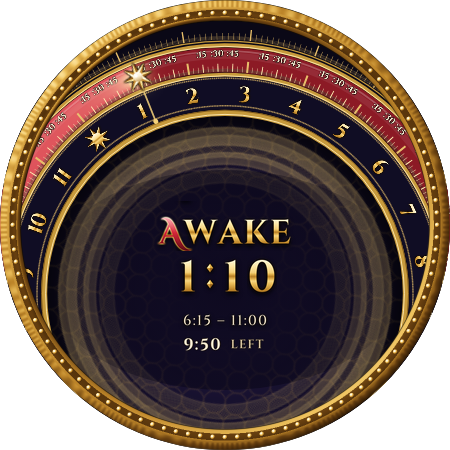
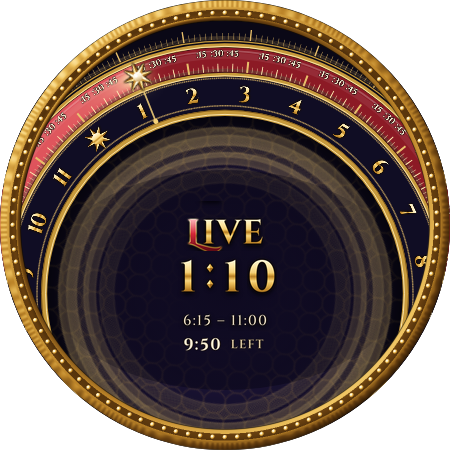
Book of Hours I and II: rename the weekend Awake chapter to Live
Claude-Session: https://claude.ai/code/session_019iNMHNdanGfPdwp3pjPi1G

Changed region(s): [[0.3422, 0.4667, 0.6533, 0.56]]

diff --git a/faces/book-of-hours/generate_xml.py b/faces/book-of-hours/generate_xml.py
@@ -15,7 +15,7 @@ rerun this script to move a boundary; every angle, ramp and label follows.
     Evening   20:30 - 23:00       (kids asleep)
 
   Weekends (Saturday, Sunday):
-    Sleep     23:00 - 6:15        Awake    6:15 - 23:00
+    Sleep     23:00 - 6:15        Live     6:15 - 23:00
 
 Sleep is shared by both, so Friday and Sunday nights cross midnight without a
 seam. Every weekday-only element (chapters, commutes, lozenges, roads) is
@@ -71,7 +71,7 @@ SCHEDULE = [
     ('work', 'Work', hm(9, 30), hm(17, 20), '#10B57E', '#93F7CF', '#04563B', 'weekday'),
     ('hearth', 'Family', hm(18, 30), hm(20, 30), '#F2662A', '#FFC9A1', '#782409', 'weekday'),
     ('evening', 'Evening', hm(20, 30), hm(23), '#A04BE6', '#E2B9FF', '#3E1466', 'weekday'),
-    ('awake', 'Awake', hm(6, 15), hm(23), '#D62839', '#FFB3B8', '#5E0A14', 'weekend'),
+    ('live', 'Live', hm(6, 15), hm(23), '#D62839', '#FFB3B8', '#5E0A14', 'weekend'),
 ]
 # Commutes are weekday-only.
 # key, start, end, subtitle
@@ -444,7 +444,7 @@ def graduations(parent):
             transform(part, 'alpha', outside_fade(t, 230))
             radial_line(part, 180.5, 185, GOLD, 1.2)
     # Five-minute graduations appear inside the zoomed chapter. One mark serves
-    # every chapter that contains it (Work and Awake overlap); at most one of
+    # every chapter that contains it (Work and Live overlap); at most one of
     # their zooms is non-zero.
     for t in range(0, 1440, 5):
         if t % 30 == 0:

diff --git a/faces/book-of-hours-ii/generate_xml.py b/faces/book-of-hours-ii/generate_xml.py
@@ -20,7 +20,7 @@ The day (edit SCHEDULE / COMMUTES and rerun):
     Evening   20:30 - 23:00
 
   Weekends (Saturday, Sunday):
-    Sleep     23:00 - 6:15        Awake    6:15 - 23:00
+    Sleep     23:00 - 6:15        Live     6:15 - 23:00
 
 Sleep is shared, so Friday and Sunday nights cross midnight without a seam.
 Weekday-only elements are multiplied by WEEKDAY and weekend-only ones by
@@ -70,7 +70,7 @@ SCHEDULE = [
     ('work', 'Work', hm(9, 30), hm(17, 20), '#10B57E', '#93F7CF', '#04563B', 'weekday'),
     ('hearth', 'Family', hm(18, 30), hm(20, 30), '#F2662A', '#FFC9A1', '#782409', 'weekday'),
     ('evening', 'Evening', hm(20, 30), hm(23), '#A04BE6', '#E2B9FF', '#3E1466', 'weekday'),
-    ('awake', 'Awake', hm(6, 15), hm(23), '#D62839', '#FFB3B8', '#5E0A14', 'weekend'),
+    ('live', 'Live', hm(6, 15), hm(23), '#D62839', '#FFB3B8', '#5E0A14', 'weekend'),
 ]
 # Commutes are weekday-only.
 # key, start, end, subtitle

diff --git a/faces/book-of-hours-ii/generate_assets.py b/faces/book-of-hours-ii/generate_assets.py
@@ -353,7 +353,7 @@ def emblem_evening(ch):
     finish(sk, layers, f'emblem_{ch.key}')
 
 
-def emblem_awake(ch):
+def emblem_live(ch):
     """A whole sun at its height: the weekend has no sections, only daylight."""
     sk = Sketch(60, 60)
     layers = [(hexrgb(ch.pigment), sk.glow(30, 30, 27) * 0.5)]
@@ -612,7 +612,7 @@ def lettering():
                 tracking=1.5, fill=IVORY, outline=0.9)
 
     emblems = {'sleep': emblem_sleep, 'dawn': emblem_dawn, 'work': emblem_work,
-               'hearth': emblem_hearth, 'evening': emblem_evening, 'awake': emblem_awake}
+               'hearth': emblem_hearth, 'evening': emblem_evening, 'live': emblem_live}
     for ch in face.CHAPTERS:
         hires(emblems[ch.key], ch)
     hires(emblem_to_work, 'to_work')

diff --git a/faces/book-of-hours/generate_assets.py b/faces/book-of-hours/generate_assets.py
@@ -347,7 +347,7 @@ def emblem_evening(ch):
     finish(sk, layers, f'emblem_{ch.key}')
 
 
-def emblem_awake(ch):
+def emblem_live(ch):
     """A whole sun at its height: the weekend has no sections, only daylight."""
     sk = Sketch(60, 60)
     layers = [(hexrgb(ch.pigment), sk.glow(30, 30, 27) * 0.5)]
@@ -650,7 +650,7 @@ def lettering():
                 tracking=1.5, fill=IVORY, outline=0.9)
 
     emblems = {'sleep': emblem_sleep, 'dawn': emblem_dawn, 'work': emblem_work,
-               'hearth': emblem_hearth, 'evening': emblem_evening, 'awake': emblem_awake}
+               'hearth': emblem_hearth, 'evening': emblem_evening, 'live': emblem_live}
     for ch in face.CHAPTERS:
         emblems[ch.key](ch)
     emblem_to_work('to_work')

diff --git a/faces/book-of-hours/notes.md b/faces/book-of-hours/notes.md
@@ -22,14 +22,14 @@ Weekends (Saturday and Sunday, added 2026-10-10) have only two chapters:
 
 | Time | Event | Chapter |
 |---|---|---|
-| 6:15 | wake up | Awake (ruby, full sun) |
+| 6:15 | wake up | Live (ruby, full sun) |
 | 11:00 | sleep | Sleep (lapis, crescent) |
 
 Each `SCHEDULE` row says whether it is `daily`, `weekday` or `weekend`;
 commutes are weekday-only. `[DAY_OF_WEEK]` (Sunday = 1, Saturday = 7) drives
 `WEEKEND = clamp(abs(d − 4) − 2, 0, 1)`, and every weekday-only element is
 multiplied by `1 − WEEKEND`, every weekend one by `WEEKEND`. Sleep is shared,
-so Friday and Sunday nights cross midnight without a jump. Awake runs 16:45,
+so Friday and Sunday nights cross midnight without a jump. Live runs 16:45,
 so the countdown grows an hours-tens digit, and the fleuron under the
 subtitle was pulled out to clear it. Ruby rather than saffron: a gold enamel
 disappeared into the gilt bezel.

diff --git a/faces/book-of-hours-ii/notes.md b/faces/book-of-hours-ii/notes.md
@@ -12,10 +12,10 @@ minute, midnight at the bottom, noon at the top. Only the camera moves.
 ## Weekends
 
 Saturday and Sunday (added 2026-10-10) have two chapters: Sleep 11:00–6:15
-and Awake 6:15–11:00 (ruby, full sun). The `SCHEDULE` rows are tagged `daily`,
+and Live 6:15–11:00 (ruby, full sun). The `SCHEDULE` rows are tagged `daily`,
 `weekday` or `weekend` and commutes are weekday-only, gated as in
 [Book of Hours](../book-of-hours/notes.md) by `[DAY_OF_WEEK]`. Sleep is
-shared, so the day change at midnight never moves the camera. Awake is long,
+shared, so the day change at midnight never moves the camera. Live is long,
 so it barely magnifies (1.26×), like Work. The countdown gains an
 hours-tens digit for it.
 
